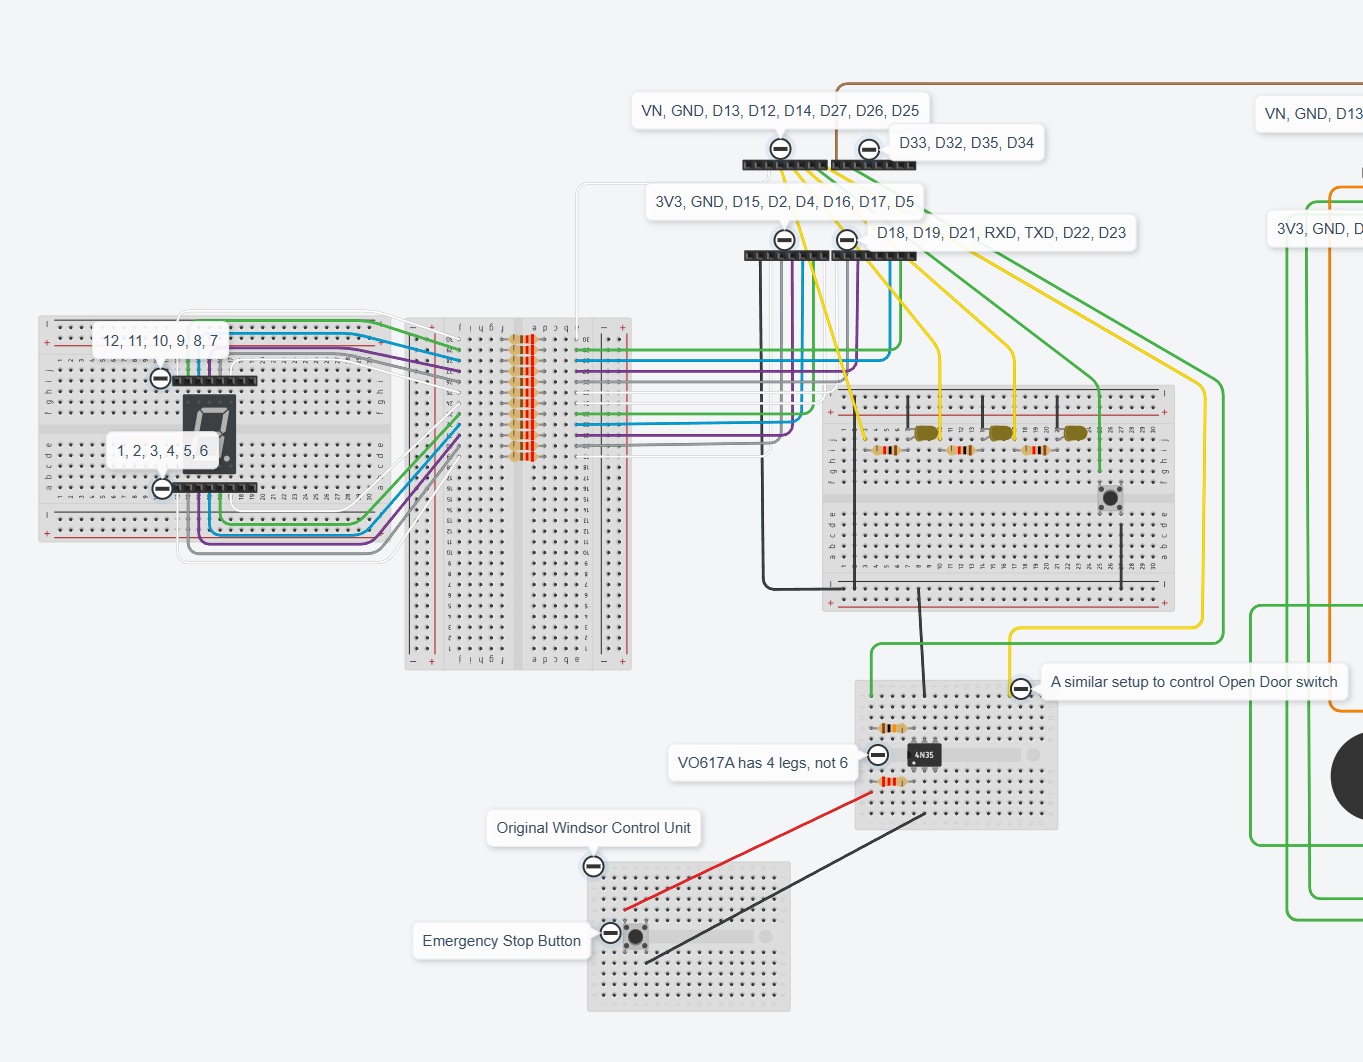
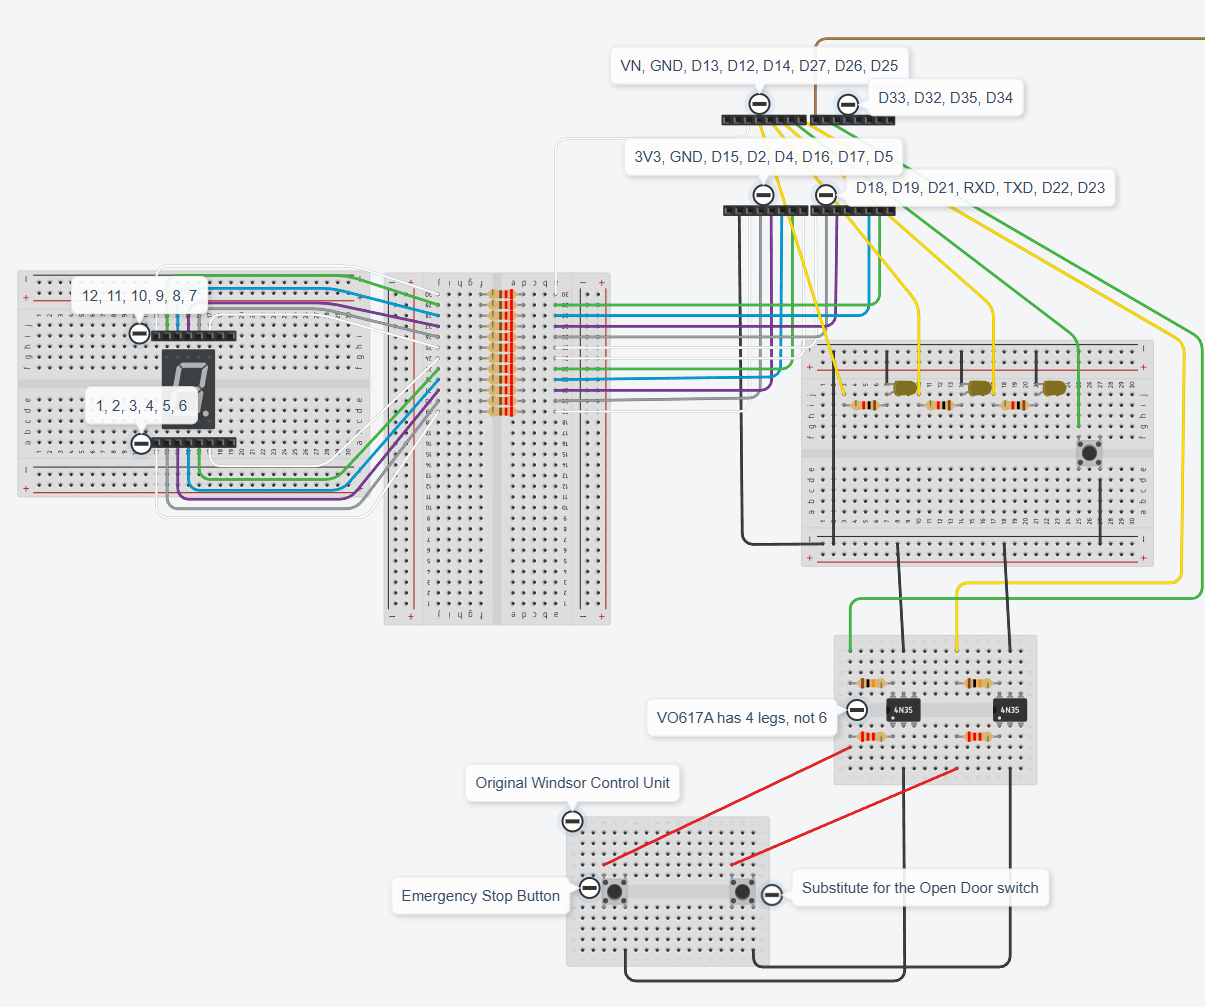
Issue #21 - Control Open Door switch through a VO617A optocoupler. Left to be tested.

Changed region(s): [[0.0, 0.0308, 1.0, 0.9851], [0.8598, 0.2463, 0.8905, 0.2771]]

diff --git a/Sketches/switch_and_display_module.md b/Sketches/switch_and_display_module.md
@@ -7,7 +7,7 @@ Switch and display module is almost complete on breadboards.
 ## ESP32 WROOM 32D board is visualized as four 8-pin headers in the sketch.
  - D32 is the green wire going through a 10kΩ resistor to a [VO617A Optocoupler](https://mou.sr/45uYfCM). The other side of the optocoupler is connected to the +27V signal from the emergency stop button of the original Windsor control unit through a 2.2kΩ resistor.
  - D33 is used to receive a signal from the RFID and door sensor module to open the door. This is the brown wire going out of the sketch into D25 of the other ESP WROOM 32D board.
- - D25 is the yellow wire going to control the Open Door switch of the original Windsor control unit through an optocoupler. (Requires testing)
+ - D25 is the yellow wire going through a 10kΩ resistor to a [VO617A Optocoupler](https://mou.sr/45uYfCM). The other side of the optocoupler is connected to the +27V signal to the Open Door switch of the original Windsor control unit.
  - D26 is the green wire going to the push button used to select which value to display (day/week/month)
  - D27 is the yellow wire going through a 1kΩ resistor to the yellow LED representing month view
  - D14 is the yellow wire going through a 1kΩ resistor to the yellow LED representing week view
